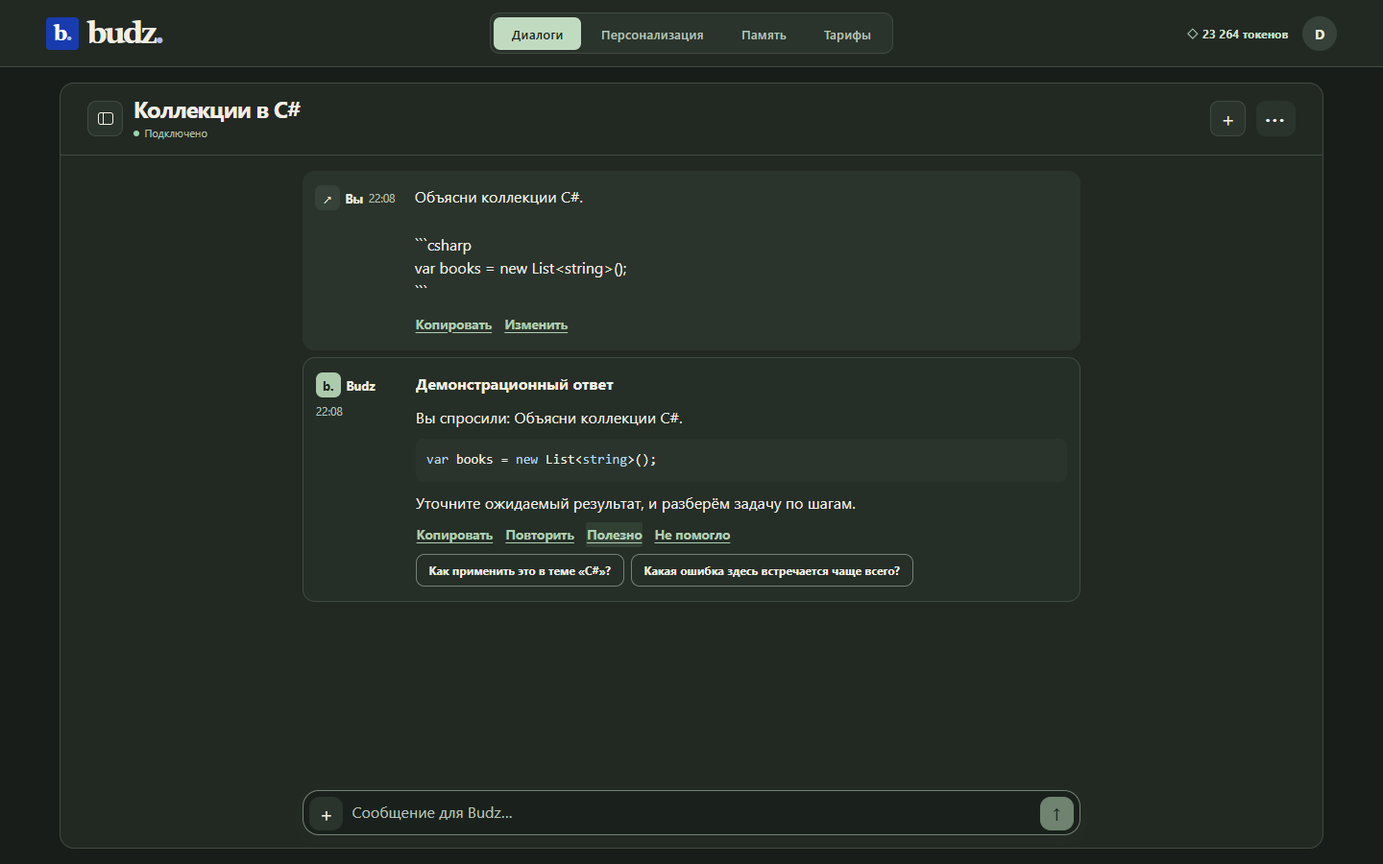
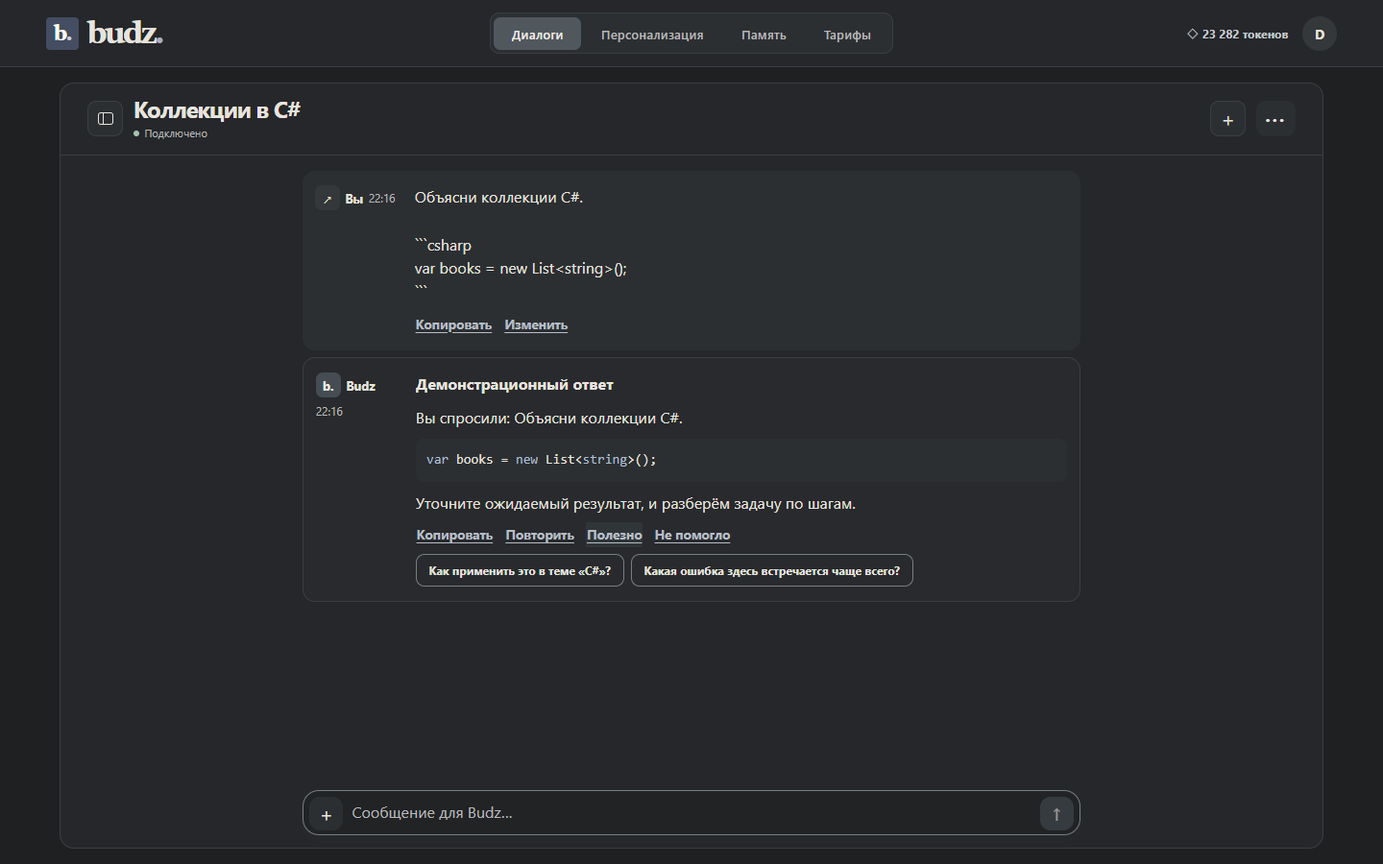
Soften the dark theme and add custom interface colors

diff --git a/frontend/src/style.css b/frontend/src/style.css
@@ -4,32 +4,66 @@
   color: var(--ink);
   background: var(--paper);
   font-synthesis: none;
-  --paper: light-dark(#f3eee4, #181d19);
-  --sheet: light-dark(#fffcf6, #222923);
-  --input: light-dark(#ffffff, #1a211c);
-  --ink: light-dark(#172329, #f2eee4);
-  --muted: light-dark(#505d62, #b8c3b9);
-  --accent: light-dark(#3d5949, #afcdb2);
-  --accent-dark: light-dark(#284135, #d0e2ce);
-  --pale: light-dark(#e9ede2, #323f33);
-  --rule: light-dark(#e2d9ca, #404a40);
-  --dark-rule: light-dark(#a69e90, #748174);
-  --inset: light-dark(#f3ede3, #2b342c);
-  --inset-hover: light-dark(#e9e1d5, #364239);
-  --contrast-fill: light-dark(#284135, #c1dbc1);
-  --primary-fill: light-dark(#3d5949, #adcaad);
-  --on-fill: light-dark(#ffffff, #18251a);
-  --feature: light-dark(#284135, #304338);
-  --focus: light-dark(#4d766d, #bbd8b8);
-  --brand-accent: light-dark(#183caf, #aabeff);
-  --danger: light-dark(#912d2c, #ffaca5);
-  --danger-fill: light-dark(#912d2c, #a63e3d);
-  --good: light-dark(#216246, #9ad5ad);
+  --base-paper: light-dark(#f3eee4, #1f2022);
+  --base-sheet: light-dark(#fffcf6, #25272a);
+  --base-input: light-dark(#ffffff, #212325);
+  --base-message: light-dark(#fffdfa, #282a2d);
+  --base-accent: light-dark(#3d5949, #b6bec5);
+  --base-accent-dark: light-dark(#284135, #c6cbd0);
+  --base-pale: light-dark(#e9ede2, #303538);
+  --base-rule: light-dark(#e2d9ca, #3b3e42);
+  --base-inset: light-dark(#f3ede3, #2c2f32);
+  --base-inset-hover: light-dark(#e9e1d5, #34383b);
+  --base-contrast-fill: light-dark(#284135, #50585e);
+  --base-primary-fill: light-dark(#3d5949, #454d53);
+  --base-feature: light-dark(#284135, #2e3337);
+  --base-focus: light-dark(#4d766d, #aab4bd);
+  --paper: var(--base-paper);
+  --sheet: var(--base-sheet);
+  --input: var(--base-input);
+  --message-surface: var(--base-message);
+  --ink: light-dark(#172329, #e7e4df);
+  --muted: light-dark(#505d62, #b8b8ba);
+  --accent: var(--base-accent);
+  --accent-dark: var(--base-accent-dark);
+  --pale: var(--base-pale);
+  --rule: var(--base-rule);
+  --dark-rule: light-dark(#a69e90, #787e83);
+  --inset: var(--base-inset);
+  --inset-hover: var(--base-inset-hover);
+  --contrast-fill: var(--base-contrast-fill);
+  --primary-fill: var(--base-primary-fill);
+  --on-fill: light-dark(#ffffff, #efece7);
+  --feature: var(--base-feature);
+  --feature-ink: light-dark(#e3eadd, #d5d7d8);
+  --focus: var(--base-focus);
+  --brand-fill: light-dark(#183caf, #444d61);
+  --brand-accent: light-dark(#183caf, #a5afc6);
+  --danger: light-dark(#912d2c, #e9ada8);
+  --danger-fill: light-dark(#912d2c, #863f3d);
+  --good: light-dark(#216246, #a8c3b2);
   --serif: Georgia, "Times New Roman", serif;
   --header: 70px;
 }
 :root[data-theme="light"] { color-scheme: light; }
 :root[data-theme="dark"] { color-scheme: dark; }
+:root[data-tint] {
+  /* Keep the base lightness and text colors stable even with an extreme custom tint. */
+  --paper: color-mix(in srgb, var(--base-paper), var(--theme-tint) 11%);
+  --sheet: color-mix(in srgb, var(--base-sheet), var(--theme-tint) 6%);
+  --input: color-mix(in srgb, var(--base-input), var(--theme-tint) 4%);
+  --message-surface: color-mix(in srgb, var(--base-message), var(--theme-tint) 7%);
+  --accent: color-mix(in srgb, var(--base-accent), var(--theme-tint) 11%);
+  --accent-dark: color-mix(in srgb, var(--base-accent-dark), var(--theme-tint) 11%);
+  --pale: color-mix(in srgb, var(--base-pale), var(--theme-tint) 8%);
+  --rule: color-mix(in srgb, var(--base-rule), var(--theme-tint) 14%);
+  --inset: color-mix(in srgb, var(--base-inset), var(--theme-tint) 8%);
+  --inset-hover: color-mix(in srgb, var(--base-inset-hover), var(--theme-tint) 7%);
+  --contrast-fill: color-mix(in srgb, var(--base-contrast-fill), var(--theme-tint) 9%);
+  --primary-fill: color-mix(in srgb, var(--base-primary-fill), var(--theme-tint) 12%);
+  --feature: color-mix(in srgb, var(--base-feature), var(--theme-tint) 13%);
+  --focus: color-mix(in srgb, var(--base-focus), var(--theme-tint) 12%);
+}
 
 * { box-sizing: border-box; }
 body { min-width: 320px; margin: 0; }
@@ -39,7 +73,7 @@ button:disabled { cursor: default; opacity: .58; }
 a { color: var(--accent); }
 a, button, input, textarea, select, summary { outline-offset: 3px; }
 :focus-visible { outline: 3px solid var(--focus); }
-::selection { color: light-dark(#0c2a83, #f3f5ff); background: light-dark(#dce6fd, #334b72); }
+::selection { color: light-dark(#0c2a83, #e9eaf0); background: light-dark(#dce6fd, #444c59); }
 p, h1, h2, h3, dl, dd, ul, ol { margin: 0; }
 h1, h2, h3 { line-height: 1.08; overflow-wrap: anywhere; }
 h1, h2 { font-weight: 670; }
@@ -75,8 +109,8 @@ summary { color: var(--accent); font-weight: 650; }
 .muted, .help { color: var(--muted); }
 .help { font-size: .83rem; }
 .notice { max-width: 100%; border-left: 3px solid var(--accent); background: var(--pale); padding: .65rem .85rem; font-size: .9rem; }
-.notice.danger { color: light-dark(#772322, #ffc4bc); background: light-dark(#faeae5, #412a28); border-color: var(--danger); }
-.notice.success { color: light-dark(#22553f, #c7e7c8); background: light-dark(#e6efe7, #263b2d); border-color: var(--good); }
+.notice.danger { color: light-dark(#772322, #e9c0b9); background: light-dark(#faeae5, #3b2c2c); border-color: var(--danger); }
+.notice.success { color: light-dark(#22553f, #c4d4c6); background: light-dark(#e6efe7, #2d3933); border-color: var(--good); }
 .sr-only, .skip-link:not(:focus) { position: absolute; width: 1px; height: 1px; padding: 0; margin: -1px; overflow: hidden;
   clip: rect(0, 0, 0, 0); white-space: nowrap; border: 0; }
 .skip-link:focus { position: fixed; z-index: 10; top: .5rem; left: .5rem; padding: .5rem .8rem; background: var(--input); }
@@ -97,8 +131,8 @@ dialog .actions { justify-content: flex-end; }
 .brand { justify-self: start; display: inline-flex; align-items: center; gap: .55rem; color: var(--ink); text-decoration: none;
   white-space: nowrap; font: 700 2rem/.95 var(--serif); letter-spacing: -.08em; }
 .brand-mark { display: inline-grid; place-content: center; grid-auto-flow: column; align-items: baseline; width: 34px; height: 34px;
-  background: #183caf; color: #fff; border-radius: 4px; font: 700 1.35rem/.9 var(--serif); letter-spacing: -.065em; }
-.brand-mark span { color: #aec1ff; }
+  background: var(--brand-fill); color: #fff; border-radius: 4px; font: 700 1.35rem/.9 var(--serif); letter-spacing: -.065em; }
+.brand-mark span { color: light-dark(#aec1ff, #c8cdd7); }
 .brand-dot { color: var(--brand-accent); }
 .top-navigation { display: flex; align-items: center; gap: .15rem; padding: .23rem;
   background: var(--inset); border: 1px solid var(--rule); border-radius: 10px; }
@@ -152,9 +186,9 @@ dialog .actions { justify-content: flex-end; }
   min-width: 0; background: var(--feature); color: #fff; padding: clamp(1.25rem, 6vw, 4.5rem); }
 .auth-brand { color: #fff; align-self: start; }
 .auth-heading { position: relative; z-index: 1; }
-.auth-heading p { color: #e0e8ff; margin-top: 1.2rem; max-width: 36ch; }
+.auth-heading p { color: var(--feature-ink); margin-top: 1.2rem; max-width: 36ch; }
 .auth-decoration { width: 150px; height: 80px; opacity: .55; display: grid; grid-template-columns: repeat(3, 1fr); gap: .55rem; }
-.auth-decoration i { border: 1px solid #aabdfa; transform: skewY(-18deg); }
+.auth-decoration i { border: 1px solid light-dark(#aabdfa, #a9b3be); transform: skewY(-18deg); }
 .auth-form { min-width: 0; min-height: 100%; padding: clamp(1.4rem, 4vw, 3.4rem); align-content: center; display: grid; gap: 1.4rem; }
 
 .workspace { display: grid; grid-template-columns: minmax(0, 1fr); gap: 1rem;
@@ -208,7 +242,7 @@ dialog .actions { justify-content: flex-end; }
   min-width: 0; padding: .95rem .8rem; border-radius: 13px; }
 .message + .message { margin-top: .42rem; }
 .message.user { background: var(--inset); }
-.message.assistant { border: 1px solid var(--rule); background: light-dark(#fffdfa, #252e27); }
+.message.assistant { border: 1px solid var(--rule); background: var(--message-surface); }
 .message-meta { display: flex; align-items: center; flex-wrap: wrap; gap: .35rem; font-size: .8rem; }
 .message-meta time { color: var(--muted); font-size: .73rem; }
 .speaker-mark { display: grid; place-items: center; width: 26px; height: 26px; flex: 0 0 auto; border-radius: 7px;
@@ -226,9 +260,9 @@ dialog .actions { justify-content: flex-end; }
 .markdown table { display: block; overflow-x: auto; }
 pre { max-width: 100%; min-width: 0; overflow-x: auto; margin: .35rem 0; padding: .7rem; border-radius: 8px; background: var(--inset); }
 code { font-family: ui-monospace, Consolas, monospace; font-size: .88em; }
-.hljs-keyword, .hljs-title, .hljs-built_in { color: light-dark(#315250, #b6d7ee); }
-.hljs-string, .hljs-number, .hljs-literal { color: light-dark(#752923, #f4b3a2); }
-.hljs-comment { color: light-dark(#53675b, #afc3b1); }
+.hljs-keyword, .hljs-title, .hljs-built_in { color: light-dark(#315250, #acbdd1); }
+.hljs-string, .hljs-number, .hljs-literal { color: light-dark(#752923, #d5b3a7); }
+.hljs-comment { color: light-dark(#53675b, #adbbb2); }
 .file-list { list-style: none; padding: 0; display: flex; flex-wrap: wrap; gap: .45rem; }
 .file-list li { min-width: 0; overflow-wrap: anywhere; }
 .file-list.picked { grid-column: 1 / -1; padding: .15rem .3rem; }

diff --git a/frontend/src/components/ThemePicker.vue b/frontend/src/components/ThemePicker.vue
@@ -1,5 +1,5 @@
 <script setup lang="ts">
-import { setTheme, theme } from '../theme'
+import { setTheme, setThemeTint, theme, themeTint } from '../theme'
 import type { Theme } from '../theme'
 
 const choices: { value: Theme; label: string; description: string }[] = [
@@ -7,6 +7,15 @@ const choices: { value: Theme; label: string; description: string }[] = [
   { value: 'light', label: 'Светлая', description: 'Тёплые бежевые оттенки' },
   { value: 'dark', label: 'Тёмная', description: 'Приглушённый тёмный фон' },
 ]
+
+const swatches = [
+  { value: null, label: 'Стандартный' },
+  { value: '#b48965', label: 'Песочный' },
+  { value: '#7293b6', label: 'Дымчато-синий' },
+  { value: '#829780', label: 'Шалфей' },
+  { value: '#907a9f', label: 'Сливовый' },
+]
+const sampleTint = '#829780'
 </script>
 
 <template>
@@ -19,6 +28,23 @@ const choices: { value: Theme; label: string; description: string }[] = [
         <span><strong>{{ choice.label }}</strong><small>{{ choice.description }}</small></span>
       </label>
     </div>
+    <fieldset class="palette">
+      <legend>Цвет интерфейса</legend>
+      <p class="help">Оттенок фона, панелей и акцентов.</p>
+      <div class="palette-colors">
+        <button v-for="swatch in swatches" :key="swatch.label" type="button" class="palette-choice"
+          :aria-pressed="themeTint === swatch.value" @click="setThemeTint(swatch.value)">
+          <span class="swatch" :style="{ '--swatch': swatch.value ?? undefined }" aria-hidden="true"></span>
+          {{ swatch.label }}
+        </button>
+      </div>
+      <label class="custom-color">
+        <input type="color" :value="themeTint ?? sampleTint" aria-label="Свой цвет"
+          @input="setThemeTint(($event.target as HTMLInputElement).value, true)"
+          @change="setThemeTint(($event.target as HTMLInputElement).value)">
+        <span>Свой цвет <small v-if="themeTint">{{ themeTint }}</small></span>
+      </label>
+    </fieldset>
   </fieldset>
 </template>
 
@@ -33,5 +59,17 @@ const choices: { value: Theme; label: string; description: string }[] = [
 .theme-choice input { width: 1rem; height: 1rem; flex: 0 0 auto; padding: 0; margin: .12rem 0 0; accent-color: var(--accent); }
 .theme-choice strong, .theme-choice small { display: block; }
 .theme-choice small { margin-top: .2rem; color: var(--muted); font-size: .77rem; font-weight: 400; line-height: 1.35; }
+.palette { display: grid; gap: .55rem; min-width: 0; margin: .95rem 0 0; padding: .55rem 0 0;
+  border: 0; border-top: 1px solid var(--rule); }
+.palette legend { padding: 0 .55rem 0 0; font-size: .88rem; }
+.palette-colors { display: flex; flex-wrap: wrap; gap: .35rem; }
+.palette-choice, .custom-color { display: inline-flex; align-items: center; gap: .4rem; justify-self: start;
+  min-height: 36px; padding: .32rem .52rem; border: 1px solid var(--rule); border-radius: 7px;
+  background: var(--inset); color: var(--ink); font-size: .79rem; font-weight: 620; cursor: pointer; }
+.palette-choice:hover, .palette-choice[aria-pressed="true"], .custom-color:hover { background: var(--pale); border-color: var(--accent); }
+.swatch { width: .8rem; height: .8rem; flex: 0 0 auto; border-radius: 50%;
+  background: var(--swatch, light-dark(#d0c0a8, #818890)); border: 1px solid var(--dark-rule); }
+.custom-color input { width: 1.55rem; height: 1.45rem; padding: .11rem; border-radius: 5px; cursor: pointer; }
+.custom-color small { color: var(--muted); font: .76rem ui-monospace, Consolas, monospace; }
 @media (max-width: 560px) { .theme-choices { grid-template-columns: 1fr; } }
 </style>

diff --git a/frontend/src/theme.ts b/frontend/src/theme.ts
@@ -1,26 +1,57 @@
 import { readonly, ref } from 'vue'
 
-const storageKey = 'budz.theme'
+const themeKey = 'budz.theme'
+const tintKey = 'budz.theme-tint'
+const root = document.documentElement
 export type Theme = 'system' | 'light' | 'dark'
 
 function readTheme(value: string | null | undefined): Theme {
   return value === 'light' || value === 'dark' ? value : 'system'
 }
 
-const preference = ref<Theme>(readTheme(document.documentElement.dataset.theme))
+function readTint(value: string | null | undefined) {
+  return value && /^#[0-9a-f]{6}$/i.test(value) ? value.toLowerCase() : null
+}
+
+const preference = ref<Theme>(readTheme(root.dataset.theme))
+const tint = ref(readTint(root.dataset.tint))
 export const theme = readonly(preference)
+export const themeTint = readonly(tint)
 
 function applyTheme(value: Theme) {
   preference.value = value
-  if (value === 'system') delete document.documentElement.dataset.theme
-  else document.documentElement.dataset.theme = value
+  if (value === 'system') delete root.dataset.theme
+  else root.dataset.theme = value
 }
 
 export function setTheme(value: Theme) {
   applyTheme(value)
-  try { localStorage.setItem(storageKey, value) } catch { /* Keep the choice for this page. */ }
+  try { localStorage.setItem(themeKey, value) } catch { /* Keep the choice for this page. */ }
+}
+
+function applyTint(value: string | null) {
+  tint.value = value
+  if (value) {
+    root.dataset.tint = value
+    root.style.setProperty('--theme-tint', value)
+  } else {
+    delete root.dataset.tint
+    root.style.removeProperty('--theme-tint')
+  }
+}
+
+export function setThemeTint(value: string | null, preview = false) {
+  const next = readTint(value)
+  applyTint(next)
+  if (preview) return
+  try {
+    if (next) localStorage.setItem(tintKey, next)
+    else localStorage.removeItem(tintKey)
+  } catch { /* Keep the choice for this page. */ }
 }
 
 window.addEventListener('storage', (event) => {
-  if (event.key === storageKey || event.key === null) applyTheme(readTheme(event.newValue))
+  if (event.storageArea !== localStorage) return
+  if (event.key === themeKey || event.key === null) applyTheme(readTheme(event.newValue))
+  if (event.key === tintKey || event.key === null) applyTint(readTint(event.newValue))
 })

diff --git a/frontend/src/components/ProfilePreview.vue b/frontend/src/components/ProfilePreview.vue
@@ -109,13 +109,13 @@ const examples = computed(() => {
 .response-check { min-width: 0; padding: clamp(.9rem, 2.4vw, 1.5rem); background: var(--feature); color: #fffdf5;
   border-radius: 13px; scroll-margin-top: calc(var(--header) + .9rem); }
 .response-check header h2 { font: 500 clamp(1.65rem, 2.5vw, 2.2rem)/1.1 var(--serif); letter-spacing: -.037em; }
-.response-check header p { margin-top: .45rem; font-size: .86rem; color: #e3eadd; }
+.response-check header p { margin-top: .45rem; font-size: .86rem; color: var(--feature-ink); }
 .preview-switch { display: grid; grid-template-columns: 1fr 1fr; gap: .2rem; padding: .23rem; margin: 1.05rem 0 .75rem;
-  background: #1e352a; border-radius: 8px; }
+  background: color-mix(in srgb, var(--feature), black 20%); border-radius: 8px; }
 .preview-switch button { min-height: 35px; padding: .4rem .5rem; border: 0; border-radius: 6px;
   color: #f7f5ed; background: transparent; font-size: .82rem; font-weight: 650; }
-.preview-switch button:hover { background: #3a5345; }
-.preview-switch button[aria-pressed=true] { color: light-dark(#284135, #18251a); background: light-dark(#f4efe4, #c1dbc1); }
+.preview-switch button:hover { background: color-mix(in srgb, var(--feature), white 11%); }
+.preview-switch button[aria-pressed=true] { color: light-dark(#284135, var(--on-fill)); background: light-dark(#f4efe4, var(--contrast-fill)); }
 .response-check :focus-visible { outline-color: #f0c797; }
 .example-card, .request-check { border-radius: 9px; background: var(--sheet); color: var(--ink); }
 .example-card { display: grid; gap: .75rem; padding: .9rem 1rem; }

diff --git a/frontend/index.html b/frontend/index.html
@@ -5,8 +5,14 @@
     <meta name="viewport" content="width=device-width, initial-scale=1.0" />
     <script>
       try {
+        const root = document.documentElement
         const theme = localStorage.getItem('budz.theme')
-        if (theme === 'light' || theme === 'dark') document.documentElement.dataset.theme = theme
+        if (theme === 'light' || theme === 'dark') root.dataset.theme = theme
+        const tint = localStorage.getItem('budz.theme-tint')
+        if (tint && /^#[0-9a-f]{6}$/i.test(tint)) {
+          root.dataset.tint = tint
+          root.style.setProperty('--theme-tint', tint)
+        }
       } catch { /* Browser storage can be unavailable. */ }
     </script>
     <title>AI Helper Budz</title>

diff --git a/docs/acceptance.md b/docs/acceptance.md
@@ -12,7 +12,7 @@
 | FR-29–FR-32 | Проверить остаток при активном резерве, повторить запрос с тем же ключом, пересечь границу суток UTC, подключить тариф | Активный резерв уменьшает остаток. После генерации списывается сумма входных и выходных токенов один раз. В новые сутки доступ обновляется. Демо-оплата сохраняет маску карты. Проверка xUnit, API и браузера |
 | FR-33–FR-36 | Посмотреть статистику, заблокировать тестовый аккаунт, сменить тариф, создать и удалить справочные записи | Агрегаты согласованы с расходом и оценками. Права роли проверены. Проверка xUnit и локального API |
 | UI-1–UI-6 | Сравнить чат и настройки на 360, 768 и 1440 px, проверить положение верхней навигации, ввод длинного сообщения, фокус и Markdown | Навигация по центру на большом экране и во втором ряду на узком. Поле растёт от одной строки до 142 px, прокручивается внутри и сбрасывается после отправки. Модель доступна из меню диалога. Браузерный тест и [снимки](screenshots/) |
-| Настройки интерфейса | Выбрать тёмную тему при первом входе, переключить тему в профиле, изменить тему браузера, скрыть список диалогов и перезагрузить страницу | Настройки темы видны сразу и сохраняются. В системном режиме смена темы браузера автоматически применяется к сайту. Панель на широком экране запоминает состояние, а её скрытие сохраняет открытый чат и черновик. Браузерный тест |
+| Настройки интерфейса | Выбрать тёмную тему и готовый оттенок при первом входе, изменить цвет в профиле, переключить тему браузера, скрыть список диалогов и перезагрузить страницу | Тема и оттенок применяются сразу и сохраняются. Системный режим меняет базовую схему с сохранением оттенка. Панель на широком экране запоминает состояние, а её скрытие сохраняет открытый чат и черновик. Браузерный тест |
 | Развёртывание | Обновить существующий Docker Compose, сравнить каталог тарифов, проверить `/health` и Swagger | PostgreSQL готов, миграция сохраняет тарифы и переводит их лимиты в токены, документы API доступны. Проверка Docker и xUnit |
 
 ## Результаты итогового прогона

diff --git a/docs/architecture.md b/docs/architecture.md
@@ -134,7 +134,7 @@ erDiagram
 - Кнопка в шапке чата скрывает и открывает список диалогов. На широком экране чат занимает освобождённое место, а выбор сохраняется в браузере. На узком экране список изначально скрыт и закрывается при выборе диалога. Модель выбирается в меню диалога. Строка ввода начинается с одной линии, растёт до 142 px и дальше прокручивается внутри.
 - Основная навигация расположена в центре шапки между названием Budz и профилем. На узких экранах она занимает второй ряд шапки. Остаток токенов отображается рядом с профилем.
 - Редактор персонализации разделён на стиль ответа, правила задач и контекст с памятью. Готовый стиль меняет тон, уровень, длину и формат. Боковая панель сразу обновляет пример стиля, а проверка своего запроса показывает категорию, эффективные правила и использование предыдущей реплики. Проверка работает до сохранения и не запускает генерацию.
-- Тема выбирается в онбординге и профиле и применяется сразу. Настройка хранится локально в браузере. Режим «Как в браузере» использует `prefers-color-scheme` и реагирует на смену темы без перезагрузки.
+- Тема выбирается в онбординге и профиле и применяется сразу. Режим «Как в браузере» использует `prefers-color-scheme` и реагирует на смену темы без перезагрузки. Выбранный оттенок смешивается с базовыми цветами фона, панелей и акцентов светлой и тёмной схемы. Тема и оттенок хранятся локально в браузере.
 - Переписка оформлена как последовательность заметок с отдельной колонкой автора и времени. Блоки кода прокручиваются внутри сообщения. Цветовые сигналы сопровождаются текстом.
 
 Снимки проверки размещены в [каталоге screenshots](screenshots/).
